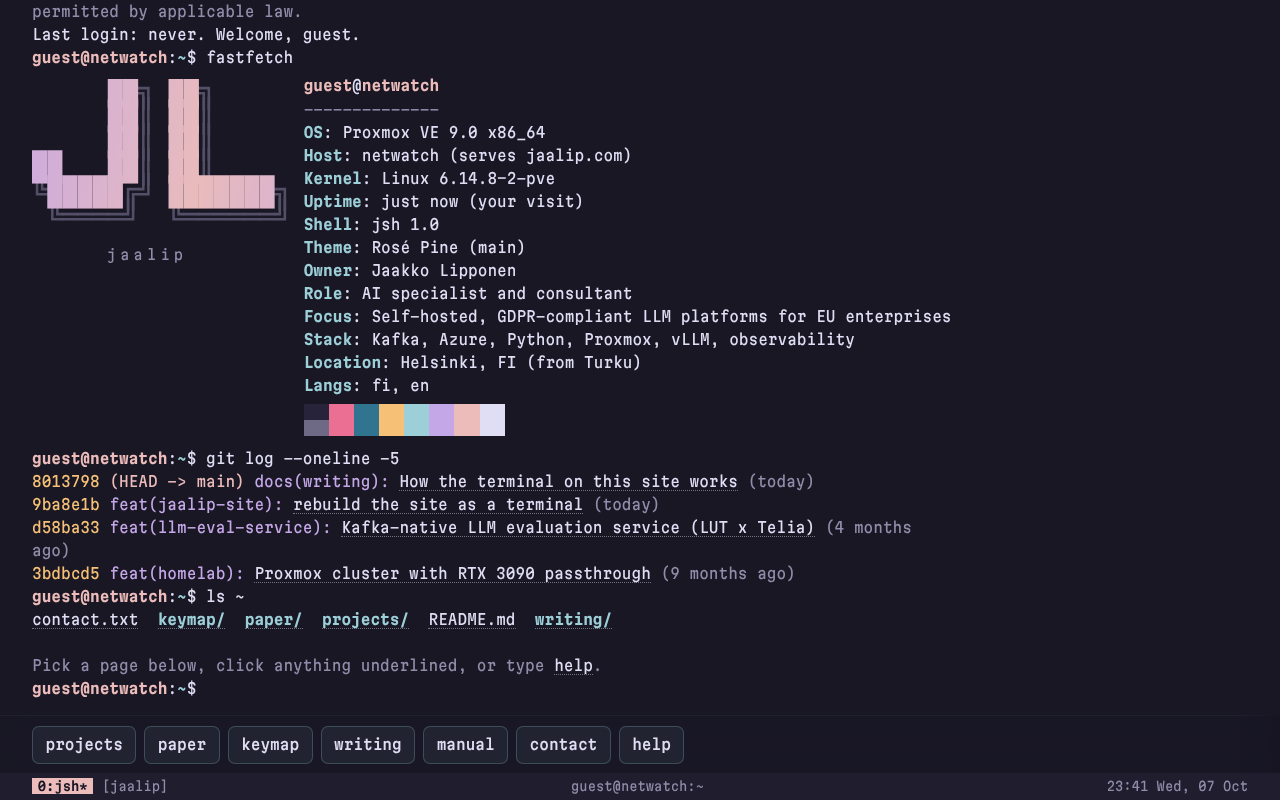
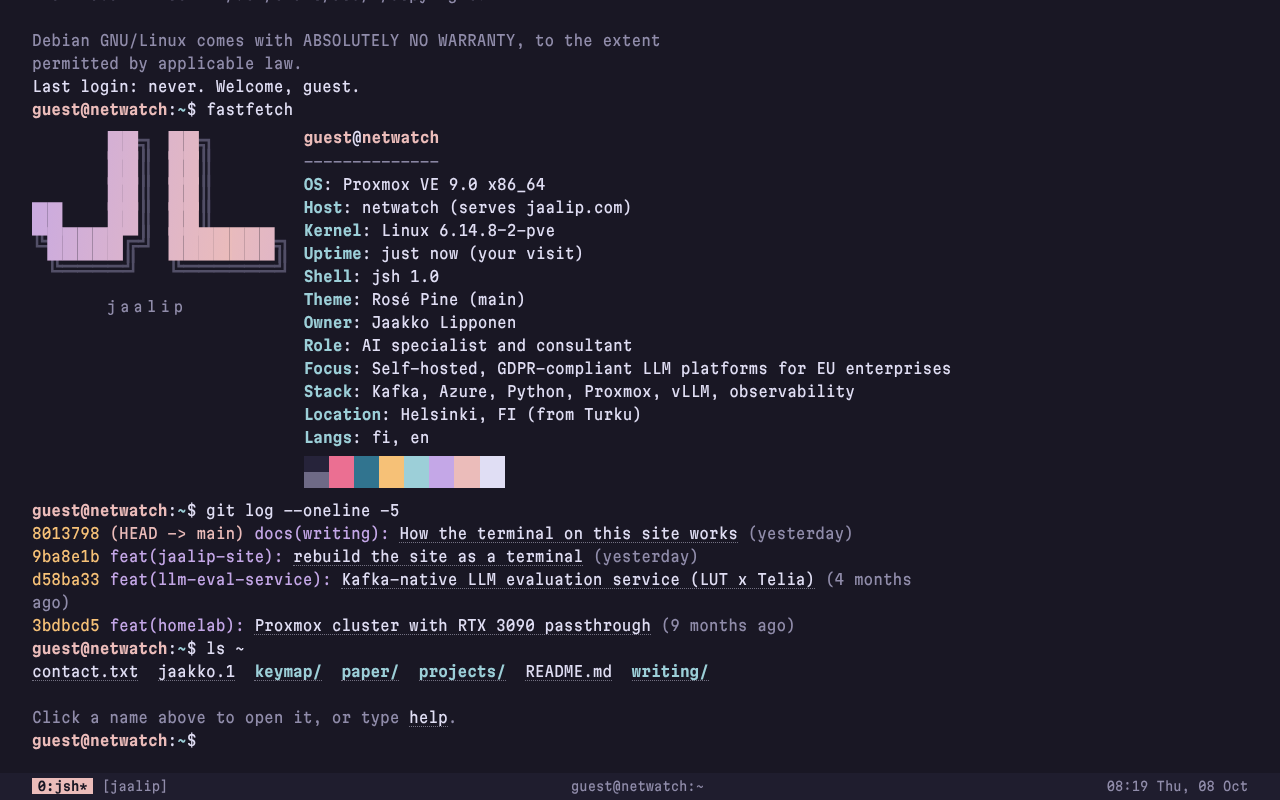
feat: replace the dock with a clickable ls ~ menu
The intro now always ends with an auto-typed `ls ~`, also after
`exit`, and that listing is the site menu. Page folders open their
page, jaakko.1 runs `man jaakko` and contact.txt runs `contact`, so
every former dock action is still one click away. The bottom bar is
now just the tmux-style status line.

Claude-Session: https://claude.ai/code/session_013QNN52Csxmin3Mm2MQnVzw

diff --git a/src/scripts/terminal/fs.js b/src/scripts/terminal/fs.js
@@ -15,9 +15,12 @@ function buildFs() {
     } else {
       kids = { [PAGE_FILES[page.id] ?? 'README.md']: { type: 'file', route: page.path, body: `# ${page.title}\n${page.blurb}` } };
     }
-    children[page.id] = { type: 'dir', route: page.path, children: kids };
+    children[page.id] = { type: 'dir', route: page.path, cmd: `open ${page.id}`, children: kids };
   }
-  children['contact.txt'] = { type: 'file', special: 'contact' };
+  /* The man page sits in ~ so the home listing works as the site menu. */
+  const man = D.owner.short.toLowerCase();
+  children[`${man}.1`] = { type: 'file', special: 'man', cmd: `man ${man}`, size: 2048 };
+  children['contact.txt'] = { type: 'file', special: 'contact', cmd: 'contact' };
   children['README.md'] = { type: 'file', body: D.readme.join('\n') };
   children['.secrets'] = {
     type: 'file',
@@ -58,12 +61,15 @@ export const tildePath = (path) => '~/' + path.join('/');
 export const findProject = (id) => D.projects.find((p) => p.id === id);
 export const isOutsideHome = (p) => p.startsWith('/') && p !== HOME && !p.startsWith(HOME + '/');
 
-/* One clickable ls entry. Directories list, programs run, files print. */
+/*
+  One clickable ls entry. Page folders open their page, programs run, files print.
+  A node's `cmd` overrides the default, so `ls ~` doubles as the site menu.
+*/
 export function lsItem(node, name, path) {
   const full = tildePath([...path, name]);
-  if (node.type === 'dir') return link(`<span class="dir">${esc(name)}/</span>`, `ls ${full}`, node.route ?? '#');
+  if (node.type === 'dir') return link(`<span class="dir">${esc(name)}/</span>`, node.cmd ?? `ls ${full}`, node.route ?? '#');
   if (node.type === 'exe') return link(`<span class="exe">${esc(name)}*</span>`, name, node.project.path);
-  return link(`<span class="${name.startsWith('.') ? 'hid' : 'file'}">${esc(name)}</span>`, `cat ${full}`, node.route ?? '#');
+  return link(`<span class="${name.startsWith('.') ? 'hid' : 'file'}">${esc(name)}</span>`, node.cmd ?? `cat ${full}`, node.route ?? '#');
 }
 
 function lsDate(iso) {
@@ -108,6 +114,12 @@ const readMore = (route) => print(`${dim('Read more: ')}${link(esc('open ' + rou
 export function printFile(r, name) {
   const n = r.node;
   if (n.special === 'contact') { print(contactHTML()); return; }
+  if (n.special === 'man') {
+    const man = D.owner.short.toLowerCase();
+    print(dim(`.TH ${man.toUpperCase()} 1\n.SH NAME\n${man} \\- ${D.owner.role}\n.SH SYNOPSIS\n...`));
+    print(`${dim('This is troff source. Read it properly: ')}${link(esc(`man ${man}`), `man ${man}`)}`);
+    return;
+  }
   if (n.type === 'exe') {
     print(dim('^?ELF^B^A^A^@^@^@^@^@^@^@^@^@^C^@>^@^A^@^@^@`^P^@^@^@^@^@^@@^@^@^@'));
     print(`${dim(`cat: ${name}: this is a program, not a text file. Run it: `)}${link(esc(n.project.id), n.project.id, n.project.path)}`);

diff --git a/src/styles/terminal.css b/src/styles/terminal.css
@@ -17,7 +17,7 @@ body.tty {
   overflow-y: auto;
   overflow-x: hidden;
   overscroll-behavior: contain;
-  padding: 1.1rem clamp(0.85rem, 3vw, 2rem) calc(6.2rem + env(safe-area-inset-bottom, 0px));
+  padding: 1.1rem clamp(0.85rem, 3vw, 2rem) calc(3rem + env(safe-area-inset-bottom, 0px));
   scrollbar-width: thin;
   scrollbar-color: var(--hl-med) transparent;
 }
@@ -137,36 +137,8 @@ a.lnk:active { color: var(--rose); }
 .trainwrap { position: relative; overflow: hidden; height: 7.2em; }
 .train { position: absolute; left: 0; top: 0; white-space: pre; color: var(--gold); will-change: transform; line-height: 1.2; }
 
-/* Bottom: translucent dock over scrolling content, then a tmux-style status line */
-#bottom { position: fixed; left: 0; right: 0; bottom: 0; z-index: 10; padding-bottom: env(safe-area-inset-bottom, 0px); background: transparent; }
-#dock {
-  display: flex;
-  gap: 0.5rem;
-  overflow-x: auto;
-  scrollbar-width: none;
-  padding: 0.6rem clamp(0.85rem, 3vw, 2rem);
-  background: color-mix(in srgb, var(--bg) 72%, transparent);
-  -webkit-backdrop-filter: blur(16px) saturate(150%);
-  backdrop-filter: blur(16px) saturate(150%);
-  border-top: 1px solid var(--hl-low);
-  mask-image: linear-gradient(90deg, #000 calc(100% - 2.5rem), transparent);
-}
-#dock::-webkit-scrollbar { display: none; }
-.chip {
-  flex: none;
-  font: inherit;
-  font-variation-settings: inherit;
-  font-weight: 500;
-  color: var(--fg);
-  background: color-mix(in srgb, var(--accent) 7%, transparent);
-  border: 1px solid color-mix(in srgb, var(--accent) 24%, transparent);
-  border-radius: 7px;
-  padding: 0.4rem 0.78rem;
-  cursor: pointer;
-  transition: transform 100ms ease-out, background-color 120ms ease-out, border-color 120ms ease-out;
-}
-.chip:hover { border-color: color-mix(in srgb, var(--rose) 60%, transparent); }
-.chip:active { transform: scale(0.97); background: color-mix(in srgb, var(--rose) 16%, transparent); }
+/* Bottom: a tmux-style status line */
+#bottom { position: fixed; left: 0; right: 0; bottom: 0; z-index: 10; padding-bottom: env(safe-area-inset-bottom, 0px); background: var(--bg-2); }
 #status {
   display: flex;
   justify-content: space-between;
@@ -266,10 +238,7 @@ body.aurora::after {
 @media (prefers-reduced-motion: reduce) {
   .cur { animation: none; }
   .logo.live .lg-block, .logo.live .lg-cur { animation: none; }
-  .chip, .chip:active, #ovQuit:active { transform: none; }
+  #ovQuit:active { transform: none; }
   body.aurora::after { animation: auroraFade 3s ease-in-out forwards; }
   @keyframes auroraFade { 0% { opacity: 0; } 30% { opacity: 0.6; } 100% { opacity: 0; } }
-}
-@media (prefers-reduced-transparency: reduce) {
-  #dock { background: var(--bg-2); -webkit-backdrop-filter: none; backdrop-filter: none; }
 }

diff --git a/src/site.config.ts b/src/site.config.ts
@@ -10,8 +10,6 @@ export interface Page {
   path: string;
   title: string;
   blurb: string;
-  /* Adds a quick button under the terminal. */
-  dock?: boolean;
   /* Optional launch date (YYYY-MM-DD). Pages with a date show up in `git log`. */
   date?: string;
 }
@@ -74,12 +72,12 @@ export const site: SiteConfig = {
     { id: 'linkedin', label: 'LinkedIn', url: 'https://www.linkedin.com/in/jaakko-lipponen/' },
   ],
 
-  /* Pages outside the terminal. `dock: true` adds a quick button under the terminal. */
+  /* Pages outside the terminal. Each one is also a folder in `ls ~`, which works as the site menu. */
   pages: [
-    { id: 'projects', path: '/projects', title: 'Projects', blurb: 'Things I build and run. Each one is also an executable in the terminal.', dock: true },
-    { id: 'paper', path: '/paper', title: 'Daily AI newspaper', blurb: 'A daily HTML newspaper, written by a local LLM pipeline.', dock: true },
-    { id: 'keymap', path: '/keymap', title: 'Sofle keymap', blurb: 'Quick reference for the layers on my Sofle split keyboard.', dock: true },
-    { id: 'writing', path: '/writing', title: 'Writing', blurb: 'Notes on LLM platforms, infrastructure and the tools around them.', dock: true },
+    { id: 'projects', path: '/projects', title: 'Projects', blurb: 'Things I build and run. Each one is also an executable in the terminal.' },
+    { id: 'paper', path: '/paper', title: 'Daily AI newspaper', blurb: 'A daily HTML newspaper, written by a local LLM pipeline.' },
+    { id: 'keymap', path: '/keymap', title: 'Sofle keymap', blurb: 'Quick reference for the layers on my Sofle split keyboard.' },
+    { id: 'writing', path: '/writing', title: 'Writing', blurb: 'Notes on LLM platforms, infrastructure and the tools around them.' },
   ],
 
   /* The machine the terminal pretends to be. `host` is the public VPS that serves this site. */
@@ -119,7 +117,7 @@ export const site: SiteConfig = {
   readme: [
     'Welcome to jaalip.com.',
     'This is a terminal, but you do not need to know Linux.',
-    'Click anything underlined, or use the buttons at the bottom.',
+    'Click anything underlined. The folders in ~ open the pages.',
     'Every project in ~/projects is a program. Type its name to run it.',
     'Type help to see all commands.',
   ],

diff --git a/src/scripts/terminal/commands.js b/src/scripts/terminal/commands.js
@@ -70,7 +70,7 @@ export const C = {
       const r = resolve(t);
       if (!r) { printText(`${t}: cannot open '${t}' (No such file or directory)`); continue; }
       const n = r.node;
-      printText(`${t}: ${n.type === 'dir' ? 'directory' : n.type === 'exe' ? 'ELF 64-bit LSB pie executable, x86-64, dynamically linked. Or a Markdown file in disguise.' : t.endsWith('.html') ? 'HTML document, UTF-8 Unicode text' : 'ASCII text'}`);
+      printText(`${t}: ${n.type === 'dir' ? 'directory' : n.type === 'exe' ? 'ELF 64-bit LSB pie executable, x86-64, dynamically linked. Or a Markdown file in disguise.' : t.endsWith('.html') ? 'HTML document, UTF-8 Unicode text' : t.endsWith('.1') ? 'troff or preprocessor input, ASCII text' : 'ASCII text'}`);
     }
   },
   open: (a) => openPage(a[0]), 'xdg-open': (a) => openPage(a[0]),
@@ -289,7 +289,7 @@ export async function dispatch(line) {
   const own = (k) => Object.prototype.hasOwnProperty.call(C, k);
   const fn = own(cmd) ? C[cmd] : own(cmd.toLowerCase()) ? C[cmd.toLowerCase()] : null;
   if (fn) return fn(args, line);
-  /* Page names work as shortcuts, like the dock buttons. */
+  /* Page names work as shortcuts, like the folders in `ls ~`. */
   const page = D.pages.find((p) => p.id === cmd.toLowerCase() || (cmd.toLowerCase() === 'blog' && p.id === 'writing'));
   if (page) return openPage(page.id);
   const project = findProject(cmd) || findProject(cmd.toLowerCase());

diff --git a/src/scripts/terminal/main.js b/src/scripts/terminal/main.js
@@ -20,7 +20,7 @@ async function execute(raw) {
   if (!S.introRunning) showInput();
 }
 
-/* Types a command into the prompt, then runs it. Used by links and the dock. */
+/* Types a command into the prompt, then runs it. Used by clickable output. */
 async function submitTyped(cmd) {
   if (S.introRunning) { S.queued = cmd; skipIntro(); return; }
   if (S.busy) return;
@@ -115,10 +115,6 @@ el.out.addEventListener('click', (e) => {
   if (!a || e.metaKey || e.ctrlKey || e.shiftKey || e.button !== 0) return;
   e.preventDefault();
   submitTyped(a.dataset.cmd);
-});
-el.dock.addEventListener('click', (e) => {
-  const b = e.target.closest('button[data-cmd]');
-  if (b) submitTyped(b.dataset.cmd);
 });
 el.ovQuit.addEventListener('click', () => S.closeOverlay());
 

diff --git a/src/scripts/terminal/intro.js b/src/scripts/terminal/intro.js
@@ -128,10 +128,11 @@ export async function intro({ boot = true, auto = true } = {}) {
     await typeCmd('git log --oneline -5');
     printLog();
     await sleep(450);
-    await typeCmd('ls ~');
-    printLs(FS, [], false);
-    await sleep(200);
   }
+  /* Always last: the home listing is the site menu. */
+  await typeCmd('ls ~');
+  printLs(FS, [], false);
+  await sleep(200);
   print();
   print(hintHTML());
   store.set(LAST_LOGIN, new Date().toISOString());

diff --git a/src/lib/terminal-data.ts b/src/lib/terminal-data.ts
@@ -11,7 +11,7 @@ export async function getTerminalData() {
     domain: site.domain,
     owner: site.owner,
     links: site.links,
-    pages: site.pages.map(({ id, path, title, blurb, dock }) => ({ id, path, title, blurb, dock: !!dock })),
+    pages: site.pages.map(({ id, path, title, blurb }) => ({ id, path, title, blurb })),
     machine: site.machine,
     services: site.services,
     readme: site.readme,

diff --git a/src/scripts/terminal/content.js b/src/scripts/terminal/content.js
@@ -120,7 +120,7 @@ export function manHTML() {
 }
 
 export function hintHTML() {
-  return `${dim('Pick a page below, click anything underlined, or type ')}${link('help', 'help')}${dim('.')}`;
+  return `${dim('Click a name above to open it, or type ')}${link('help', 'help')}${dim('.')}`;
 }
 
 /* ---------------- Projects are programs ---------------- */

diff --git a/src/scripts/terminal/state.js b/src/scripts/terminal/state.js
@@ -17,7 +17,6 @@ export const el = {
   prompt: $('#prompt'),
   statusMid: $('#statusMid'),
   clock: $('#clock'),
-  dock: $('#dock'),
   ov: $('#overlay'),
   ovBody: $('#ovBody'),
   ovQuit: $('#ovQuit'),

diff --git a/docs/design-defaults.md b/docs/design-defaults.md
@@ -52,7 +52,7 @@ Contact is GitHub and LinkedIn only. No email address on the site.
 | --- | --- | --- | --- |
 | `--bg` | base | `#191724` | Page background |
 | `--bg-2` | surface | `#1f1d2e` | Status line, raised surfaces |
-| `--bg-3` | overlay | `#26233a` | Code blocks, chips |
+| `--bg-3` | overlay | `#26233a` | Inline code |
 | `--fg` | text | `#e0def4` | Body text, typed commands |
 | `--dim` | subtle | `#908caa` | Secondary text |
 | `--faint` | muted | `#6e6a86` | Decoration only |
@@ -83,6 +83,7 @@ To try the moon variant, swap the primitives at the top of `src/styles/tokens.cs
 
 - Machine: Proxmox VE on `netwatch`. Internal homelab hostnames are never shown.
 - Intro: a brief systemd boot sequence, the Proxmox console banner, auto login as `guest`, then auto-typed `fastfetch`, `git log --oneline -5`, `ls ~`.
+- `ls ~` is the site menu and always runs last, also after `exit`. Page folders open their page, `<owner>.1` opens the man page, `contact.txt` shows the links.
 - Any key or tap skips the intro. Returning visitors skip the boot (one localStorage key).
 - Prompt format: `guest@netwatch:~$`.
 - Projects are executables in `~/projects`, which is on `PATH`. `homelab`, `./homelab` and `~/projects/homelab` all run it.
@@ -90,7 +91,6 @@ To try the moon variant, swap the primitives at the top of `src/styles/tokens.cs
 - Services (boot log, `htop`, `docker ps`) come from `services` in `src/site.config.ts`.
 - Shell features: Tab completion, history, Ctrl+C, Ctrl+L, "Did you mean" suggestions.
 - Underlined output runs a command on click.
-- Bottom dock: translucent quick buttons (projects, paper, keymap, writing, manual, contact, help).
 - Status line: tmux style, with path and Helsinki time.
 - Easter eggs: apt, pacman (not here), sudo, rm -rf /, vim, sl, cowsay (moose), matrix, htop, nvidia-smi, docker ps, ping, ssh, curl, sauna, kahvi, sisu, moi, apua, turku, .secrets, Konami code (northern lights).
 
@@ -99,7 +99,7 @@ To try the moon variant, swap the primitives at the top of `src/styles/tokens.cs
 - Press feedback on pointer-down (scale 0.97, 100 ms).
 - Every animation is interruptible.
 - Reduced motion: no typing animation, no train, no rain, static logo.
-- Reduced transparency: solid dock.
+- Reduced transparency: nothing on the homepage is translucent.
 - Hidden nav with real links for screen readers, plus a `<noscript>` fallback.
 - Text colors pass WCAG AA on their background.
 

diff --git a/docs/decisions/2026-10-08-ls-menu.md b/docs/decisions/2026-10-08-ls-menu.md
@@ -1,0 +1,11 @@
+# 2026-10-08: The home listing replaces the dock
+
+Status: confirmed by the owner.
+
+| Question | Old default | Answer | Reason |
+| --- | --- | --- | --- |
+| Quick buttons under the terminal | Translucent dock with 7 buttons | Removed | Owner choice. |
+| Where the shortcuts live | The dock | The output of `ls ~`, which the intro types and runs as its last step | Owner choice. Clickable output fits the terminal better than buttons. |
+| What a page folder does when clicked | `ls ~/<folder>` | Opens the page, as the dock button did (`open <page>`) | Keeps every page one click away. `ls ~/projects` still lists the programs. |
+| Manual and contact shortcuts | Dock buttons | `jaakko.1` (runs `man jaakko`) and `contact.txt` (runs `contact`) in `~` | Claude's call. Keeps all 7 dock actions in the listing. Help is the link in the hint line under it. |
+| `exit` | Login, then an empty prompt | Login, then `ls ~` | Claude's call. The menu is always on screen after a login. |

diff --git a/README.md b/README.md
@@ -26,7 +26,7 @@ npm run preview    # serve dist/
 | --- | --- |
 | Name, role, links, man page, fortunes | `src/site.config.ts` |
 | The machine (host, OS, kernel, GPU) and the services in the boot log, `htop` and `docker ps` | `src/site.config.ts` |
-| Pages and the dock buttons | `pages` in `src/site.config.ts` |
+| Pages (also the folders in `ls ~`, the terminal's menu) | `pages` in `src/site.config.ts` |
 | Projects | `src/content/projects/<id>.md` |
 | Posts | `src/content/writing/<id>.md` |
 | Colors | `src/styles/tokens.css` |
